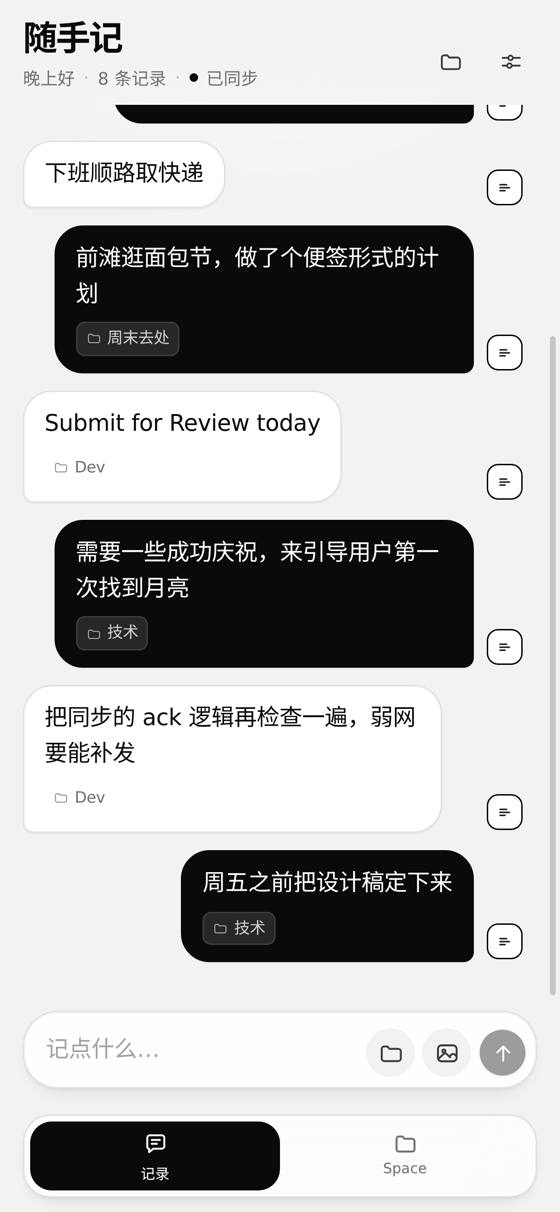
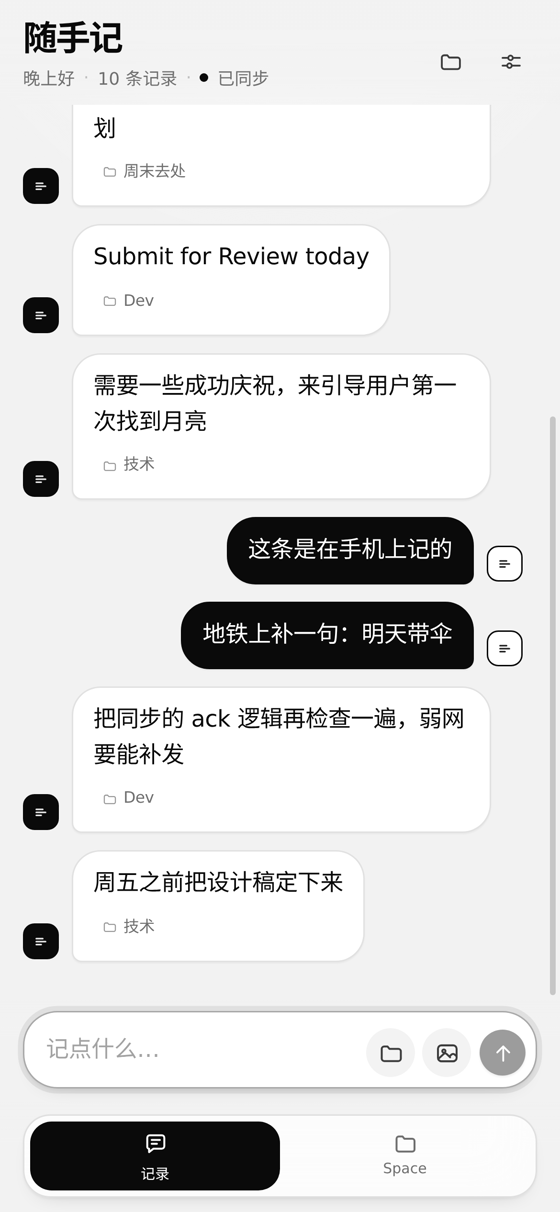
fix: 气泡左右按作者判断，不再按序号交替
- Memo 增加不可变的 authorId，创建时写入当前设备 id
- 记录页按 authorId === 本机 clientId 决定左右：自己在右（黑），其他设备在左（白）
- 老数据没有 authorId 时从 hlc 尾部回退解析
- 对方头像移到气泡左侧并改为黑底白记号，每行保持一黑一白
- README / DESIGN 同步说明

diff --git a/src/components/RecordView.tsx b/src/components/RecordView.tsx
@@ -1,6 +1,6 @@
 import { useEffect, useLayoutEffect, useMemo, useRef } from 'react';
 import { dayKey, dayLabel, greeting } from '../lib/format';
-import { folderName, liveMemos, useApp } from '../lib/store';
+import { folderName, liveMemos, memoAuthor, useApp } from '../lib/store';
 import type { Memo } from '../lib/types';
 import { useUI } from '../lib/ui';
 import { Composer } from './Composer';
@@ -19,6 +19,7 @@ export function RecordView() {
   const memos = useApp((s) => s.memos);
   const folders = useApp((s) => s.folders);
   const remoteHits = useApp((s) => s.remoteHits);
+  const clientId = useApp((s) => s.clientId);
   const setTab = useApp((s) => s.setTab);
   const openSheet = useUI((s) => s.open);
 
@@ -113,7 +114,7 @@ export function RecordView() {
                     key={item.memo.id}
                     memo={item.memo}
                     index={item.index}
-                    side={item.index % 2 === 0 ? 'them' : 'me'}
+                    side={memoAuthor(item.memo) === clientId ? 'me' : 'them'}
                     fresh={Boolean(remoteHits[item.memo.id])}
                     folderLabel={folderName(folders, item.memo.folderId)}
                     onOpen={(m) => openSheet({ kind: 'editor', memoId: m.id })}

diff --git a/src/lib/store.ts b/src/lib/store.ts
@@ -139,6 +139,7 @@ export const useApp = create<AppState>((set, get) => ({
     const hlc = nextHLC();
     const memo: Memo = {
       id,
+      authorId: get().clientId,
       text: text.trim(),
       images,
       folderId,
@@ -334,6 +335,7 @@ export const useApp = create<AppState>((set, get) => ({
       } else {
         const memo: Memo = {
           id,
+          authorId: String(raw.authorId ?? raw.hlc?.toString().split('-')[2] ?? get().clientId),
           text: String(raw.text ?? ''),
           images: Array.isArray(raw.images) ? (raw.images as string[]) : [],
           folderId: (raw.folderId as string | null) ?? null,
@@ -379,6 +381,11 @@ export function liveFolders(folders: Record<string, Folder>): Folder[] {
   return Object.values(folders)
     .filter((f) => !f.deleted)
     .sort((a, b) => a.createdAt - b.createdAt);
+}
+
+/** 记录的作者设备；老数据没有 authorId 时从 hlc 尾部回退解析 */
+export function memoAuthor(memo: Memo): string {
+  return memo.authorId ?? memo.hlc.split('-')[2] ?? '';
 }
 
 export function folderName(folders: Record<string, Folder>, id: string | null | undefined): string | null {

diff --git a/src/components/MemoBubble.tsx b/src/components/MemoBubble.tsx
@@ -31,6 +31,12 @@ export function MemoBubble({ memo, index, side, fresh, folderLabel, onOpen, onMe
         delay: Math.min(index, 14) * 0.022,
       }}
     >
+      {side === 'them' && (
+        <div className="avatar" aria-hidden>
+          <BrandGlyph width={13} height={13} />
+        </div>
+      )}
+
       <div
         className={`bubble${fresh ? ' bubble--just' : ''}`}
         {...press}
@@ -92,9 +98,12 @@ export function MemoBubble({ memo, index, side, fresh, folderLabel, onOpen, onMe
       </div>
 
       <span className="row__time">{formatTime(memo.createdAt)}</span>
-      <div className="avatar" aria-hidden>
-        <BrandGlyph width={13} height={13} />
-      </div>
+
+      {side === 'me' && (
+        <div className="avatar" aria-hidden>
+          <BrandGlyph width={13} height={13} />
+        </div>
+      )}
     </motion.div>
   );
 }

diff --git a/src/styles/app.css b/src/styles/app.css
@@ -384,7 +384,7 @@
 }
 
 .row--them .row__time {
-  left: 13px;
+  left: 38px;
 }
 
 .row--me .row__time {
@@ -547,6 +547,12 @@
   width: 13px;
   height: 13px;
   opacity: 0.9;
+}
+
+/* 对方设备：黑底白记号；自己：白底黑记号。每行恰好一黑一白 */
+.row--them .avatar {
+  background: var(--ink);
+  color: var(--on-ink);
 }
 
 /* ------------------------------------------------------------------ *

diff --git a/src/lib/types.ts b/src/lib/types.ts
@@ -3,6 +3,8 @@ export type OpKind = 'put' | 'del';
 
 export interface Memo {
   id: string;
+  /** 创建者设备 id，写入后不再变更，用于决定气泡在左还是右 */
+  authorId?: string;
   text: string;
   images: string[];
   folderId: string | null;

diff --git a/DESIGN.md b/DESIGN.md
@@ -151,7 +151,8 @@ Framer Motion 的弹簧参数：
 - **弹层**：遮罩 `rgba(0,0,0,.34)` + `blur(7px)`；桌面居中、移动端底部升起，同一套组件切换位置。
 - **空状态**：三个错落的气泡形状 + 6–9s 的极慢漂浮，暗示"这里会有对话"。
 - **图标**：全部手写 SVG，1.7 线宽、圆头圆角，24 网格，不使用 emoji。
-- **头像**：白底 + 1px 黑边 + 黑色记号。不用实黑——否则会和右侧黑色气泡糊成一块。
+- **头像**：跟随作者反色——自己（贴黑气泡）是白底 + 1px 黑框 + 黑记号；其他设备（贴白气泡）是黑底 + 白记号。这样每行恰好一黑一白，两侧不会糊在一起。
+- **左右不是装饰**：气泡方向由记录的 `authorId` 决定，自己发的在右、其他设备在左；编辑不会改变归属。
 
 ---
 

diff --git a/README.md b/README.md
@@ -28,7 +28,7 @@
 
 | 能力 | 说明 |
 | --- | --- |
-| 聊天式速记 | 记录以气泡形式左右交替排布，Enter 直接发送，Shift+Enter 换行，⌘/Ctrl+Enter 也可发送 |
+| 聊天式速记 | 自己发的记录在右侧（黑底），其他设备的记录在左侧（白底），Enter 直接发送，Shift+Enter 换行，⌘/Ctrl+Enter 也可发送 |
 | 多端实时同步 | 两台设备打开同一个地址，任一侧写入 ~100ms 内出现在另一侧；侧边栏显示当前在线设备 |
 | 离线可用 | 断网时照常记录，写入先落本机 IndexedDB，恢复网络后自动补发，服务端按 op id 幂等去重 |
 | 空间 / 文件夹 | 「空间」用卡片流回顾全部记录，支持全文搜索与按文件夹筛选；「文件夹」是拟物 3D 图标网格 |
